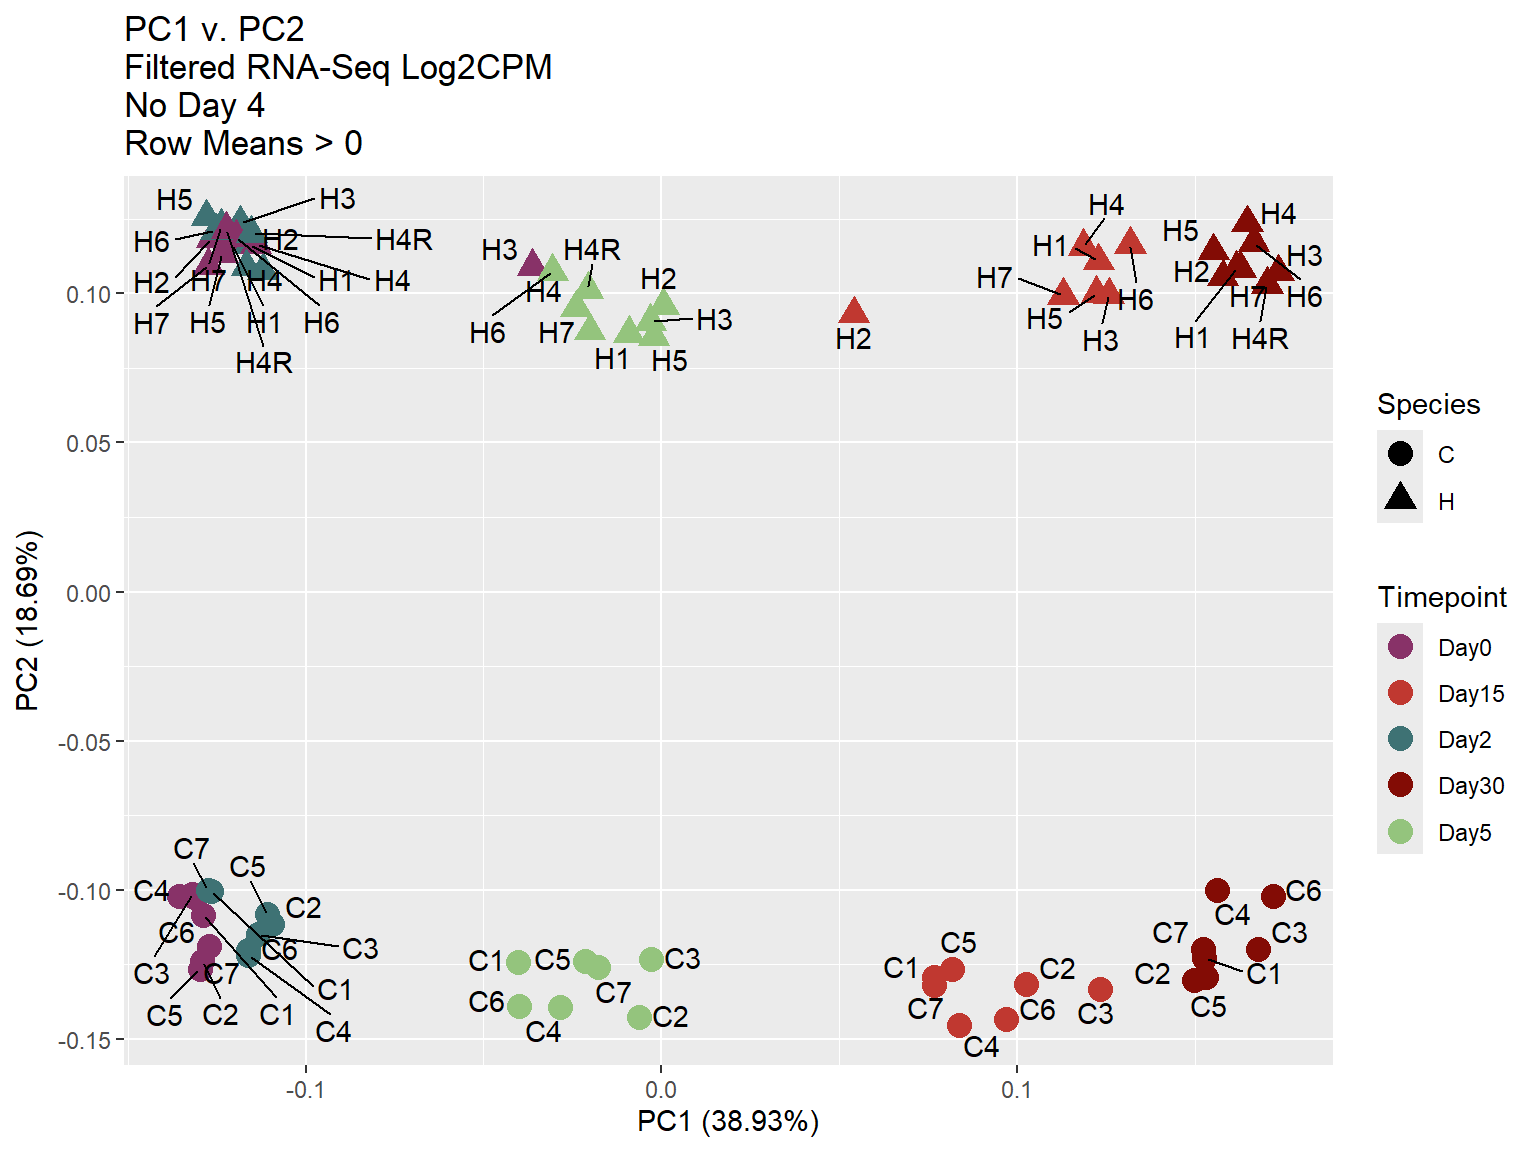
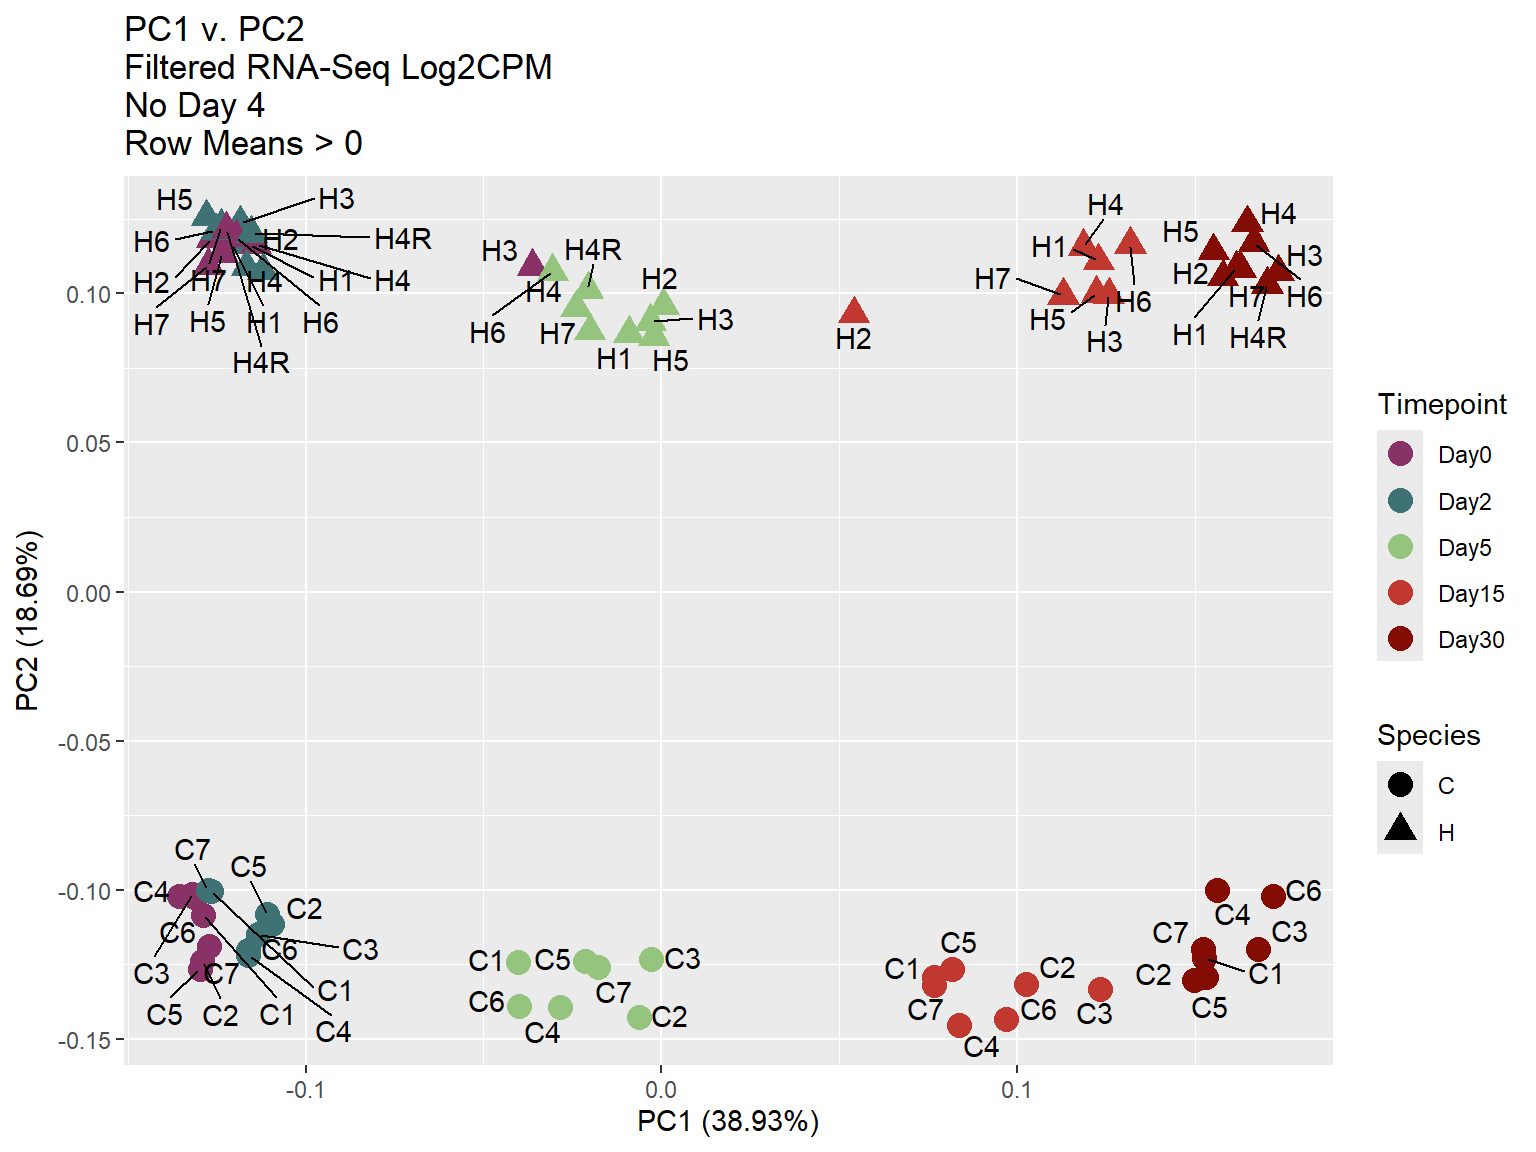
Build site.

diff --git a/docs/RNA_PCA_Ensemble.html b/docs/RNA_PCA_Ensemble.html
@@ -519,15 +519,15 @@ project makes it easier to run your code on other machines.</p>
 <div class="panel panel-default">
 <div class="panel-heading">
 <p class="panel-title">
-<a data-toggle="collapse" data-parent="#workflowr-checks" href="#strongRepositoryversionstrongahrefhttpsgithubcomJohnDHurleyCrossSpeciesCMDiffRNAtree410252c8cf13377a63d1576113304d188e27a6b1targetblank410252ca">
+<a data-toggle="collapse" data-parent="#workflowr-checks" href="#strongRepositoryversionstrongahrefhttpsgithubcomJohnDHurleyCrossSpeciesCMDiffRNAtree6c3b1e17c29f29a2fd88d022828e215e89e1808ctargetblank6c3b1e1a">
 <span class="glyphicon glyphicon-ok text-success"
 aria-hidden="true"></span> <strong>Repository version:</strong>
-<a href="https://github.com/JohnDHurley/CrossSpecies_CM_Diff_RNA/tree/410252c8cf13377a63d1576113304d188e27a6b1" target="_blank">410252c</a>
+<a href="https://github.com/JohnDHurley/CrossSpecies_CM_Diff_RNA/tree/6c3b1e17c29f29a2fd88d022828e215e89e1808c" target="_blank">6c3b1e1</a>
 </a>
 </p>
 </div>
 <div
[2 lines of base64/hex data omitted]
 class="panel-collapse collapse">
 <div class="panel-body">
 <p>
@@ -537,7 +537,7 @@ reproducibility.
 </p>
 <p>
 The results in this page were generated with repository version
-<a href="https://github.com/JohnDHurley/CrossSpecies_CM_Diff_RNA/tree/410252c8cf13377a63d1576113304d188e27a6b1" target="_blank">410252c</a>.
+<a href="https://github.com/JohnDHurley/CrossSpecies_CM_Diff_RNA/tree/6c3b1e17c29f29a2fd88d022828e215e89e1808c" target="_blank">6c3b1e1</a>.
 See the <em>Past versions</em> tab to see a history of the changes made
 to the R Markdown and HTML files.
 </p>
@@ -599,6 +599,40 @@ Message
 </tr>
 </thead>
 <tbody>
+<tr>
+<td>
+Rmd
+</td>
+<td>
+<a href="https://github.com/JohnDHurley/CrossSpecies_CM_Diff_RNA/blob/6c3b1e17c29f29a2fd88d022828e215e89e1808c/analysis/RNA_PCA_Ensemble.Rmd" target="_blank">6c3b1e1</a>
+</td>
+<td>
+John D. Hurley
+</td>
+<td>
+2026-02-18
+</td>
+<td>
+PCA_OrderingDays
+</td>
+</tr>
+<tr>
+<td>
+html
+</td>
+<td>
+<a href="https://rawcdn.githack.com/JohnDHurley/CrossSpecies_CM_Diff_RNA/1ffbaa12fb806756b8f0595a348d04c043948cbf/docs/RNA_PCA_Ensemble.html" target="_blank">1ffbaa1</a>
+</td>
+<td>
+John D. Hurley
+</td>
+<td>
+2026-02-18
+</td>
+<td>
+Build site.
+</td>
+</tr>
 <tr>
 <td>
 Rmd
@@ -730,6 +764,8 @@ prcomp_RNA_meta &lt;- prcomp_RNA$x %&gt;% cbind(., RNA_Metadata)
 #PCA checks
 #k=1
 
+prcomp_RNA_meta$Timepoint &lt;- factor(prcomp_RNA_meta$Timepoint, levels = c(&quot;Day0&quot;,&quot;Day2&quot;,&quot;Day4&quot;,&quot;Day5&quot;,&quot;Day15&quot;,&quot;Day30&quot;))
+
 ggplot2::autoplot(prcomp_RNA,
                   data = prcomp_RNA_meta,
                   colour = &quot;Timepoint&quot;,
@@ -768,6 +804,17 @@ Date
 <tbody>
 <tr>
 <td>
+<a href="https://github.com/JohnDHurley/CrossSpecies_CM_Diff_RNA/blob/1ffbaa12fb806756b8f0595a348d04c043948cbf/docs/figure/RNA_PCA_Ensemble.Rmd/RNA_Unfiltered_PCA_PC1_PC2-1.png" target="_blank">1ffbaa1</a>
+</td>
+<td>
+John D. Hurley
+</td>
+<td>
+2026-02-18
+</td>
+</tr>
+<tr>
+<td>
 <a href="https://github.com/JohnDHurley/CrossSpecies_CM_Diff_RNA/blob/b9657729c85e0ca81fd0be0d7e73504b8ba6c7ce/docs/figure/RNA_PCA_Ensemble.Rmd/RNA_Unfiltered_PCA_PC1_PC2-1.png" target="_blank">b965772</a>
 </td>
 <td>
@@ -798,6 +845,8 @@ John D. Hurley
 prcomp_Filt_RMG0_RNA_meta &lt;- prcomp_Filt_RMG0_RNA$x %&gt;% cbind(., RNA_Metadata)
 #PCA checks
 #k=1
+
+prcomp_Filt_RMG0_RNA_meta$Timepoint &lt;- factor(prcomp_Filt_RMG0_RNA_meta$Timepoint, levels = c(&quot;Day0&quot;,&quot;Day2&quot;,&quot;Day4&quot;,&quot;Day5&quot;,&quot;Day15&quot;,&quot;Day30&quot;))
 
 ggplot2::autoplot(prcomp_Filt_RMG0_RNA ,
                   data = prcomp_Filt_RMG0_RNA_meta,
@@ -838,6 +887,17 @@ Date
 <tbody>
 <tr>
 <td>
+<a href="https://github.com/JohnDHurley/CrossSpecies_CM_Diff_RNA/blob/1ffbaa12fb806756b8f0595a348d04c043948cbf/docs/figure/RNA_PCA_Ensemble.Rmd/RNA_RMG0_PCA_PC1_PC2-1.png" target="_blank">1ffbaa1</a>
+</td>
+<td>
+John D. Hurley
+</td>
+<td>
+2026-02-18
+</td>
+</tr>
+<tr>
+<td>
 <a href="https://github.com/JohnDHurley/CrossSpecies_CM_Diff_RNA/blob/b9657729c85e0ca81fd0be0d7e73504b8ba6c7ce/docs/figure/RNA_PCA_Ensemble.Rmd/RNA_RMG0_PCA_PC1_PC2-1.png" target="_blank">b965772</a>
 </td>
 <td>
@@ -868,6 +928,8 @@ John D. Hurley
 prcomp_Filt_RMG0_RNA_log2cpm_NoD4_meta &lt;- prcomp_Filt_RMG0_RNA_log2cpm_NoD4$x %&gt;% cbind(., RNA_Metadata_No4)
 #PCA checks
 #k=1
+
+prcomp_Filt_RMG0_RNA_log2cpm_NoD4_meta$Timepoint &lt;- factor(prcomp_Filt_RMG0_RNA_log2cpm_NoD4_meta$Timepoint, levels = c(&quot;Day0&quot;,&quot;Day2&quot;,&quot;Day5&quot;,&quot;Day15&quot;,&quot;Day30&quot;))
 
 ggplot2::autoplot(prcomp_Filt_RMG0_RNA_log2cpm_NoD4 ,
                   data = prcomp_Filt_RMG0_RNA_log2cpm_NoD4_meta,
@@ -909,6 +971,17 @@ Date
 <tbody>
 <tr>
 <td>
+<a href="https://github.com/JohnDHurley/CrossSpecies_CM_Diff_RNA/blob/1ffbaa12fb806756b8f0595a348d04c043948cbf/docs/figure/RNA_PCA_Ensemble.Rmd/RNA_NoD4_RMG0_PCA_PC1_PC2-1.png" target="_blank">1ffbaa1</a>
+</td>
+<td>
+John D. Hurley
+</td>
+<td>
+2026-02-18
+</td>
+</tr>
+<tr>
+<td>
 <a href="https://github.com/JohnDHurley/CrossSpecies_CM_Diff_RNA/blob/b9657729c85e0ca81fd0be0d7e73504b8ba6c7ce/docs/figure/RNA_PCA_Ensemble.Rmd/RNA_NoD4_RMG0_PCA_PC1_PC2-1.png" target="_blank">b965772</a>
 </td>
 <td>
@@ -935,7 +1008,9 @@ John D. Hurley
 </div>
 <pre class="r"><code># saveRDS(prcomp_Filt_RMG0_RNA_log2cpm_NoD4,&quot;data/QC/prcomp_Filt_RMG0_RNA_log2cpm_NoD4.RDS&quot;)
 # saveRDS(prcomp_Filt_RMG0_RNA_log2cpm_NoD4_meta,&quot;data/QC/prcomp_Filt_RMG0_RNA_log2cpm_NoD4_meta.RDS&quot;)</code></pre>
-<pre class="r"><code>ggplot2::autoplot(prcomp_Filt_RMG0_RNA_log2cpm_NoD4 ,
+<pre class="r"><code>prcomp_Filt_RMG0_RNA_log2cpm_NoD4_meta$Timepoint &lt;- factor(prcomp_Filt_RMG0_RNA_log2cpm_NoD4_meta$Timepoint, levels = c(&quot;Day0&quot;,&quot;Day2&quot;,&quot;Day5&quot;,&quot;Day15&quot;,&quot;Day30&quot;))
+
+ggplot2::autoplot(prcomp_Filt_RMG0_RNA_log2cpm_NoD4 ,
                   data = prcomp_Filt_RMG0_RNA_log2cpm_NoD4_meta,
                   colour = &quot;Timepoint&quot;,
                   shape = &quot;Species&quot;,
@@ -973,6 +1048,17 @@ Date
 </tr>
 </thead>
 <tbody>
+<tr>
+<td>
+<a href="https://github.com/JohnDHurley/CrossSpecies_CM_Diff_RNA/blob/1ffbaa12fb806756b8f0595a348d04c043948cbf/docs/figure/RNA_PCA_Ensemble.Rmd/RNA_NoD4_RMG0_PCA_PC3_PC4-1.png" target="_blank">1ffbaa1</a>
+</td>
+<td>
+John D. Hurley
+</td>
+<td>
+2026-02-18
+</td>
+</tr>
 <tr>
 <td>
 <a href="https://github.com/JohnDHurley/CrossSpecies_CM_Diff_RNA/blob/b9657729c85e0ca81fd0be0d7e73504b8ba6c7ce/docs/figure/RNA_PCA_Ensemble.Rmd/RNA_NoD4_RMG0_PCA_PC3_PC4-1.png" target="_blank">b965772</a>
